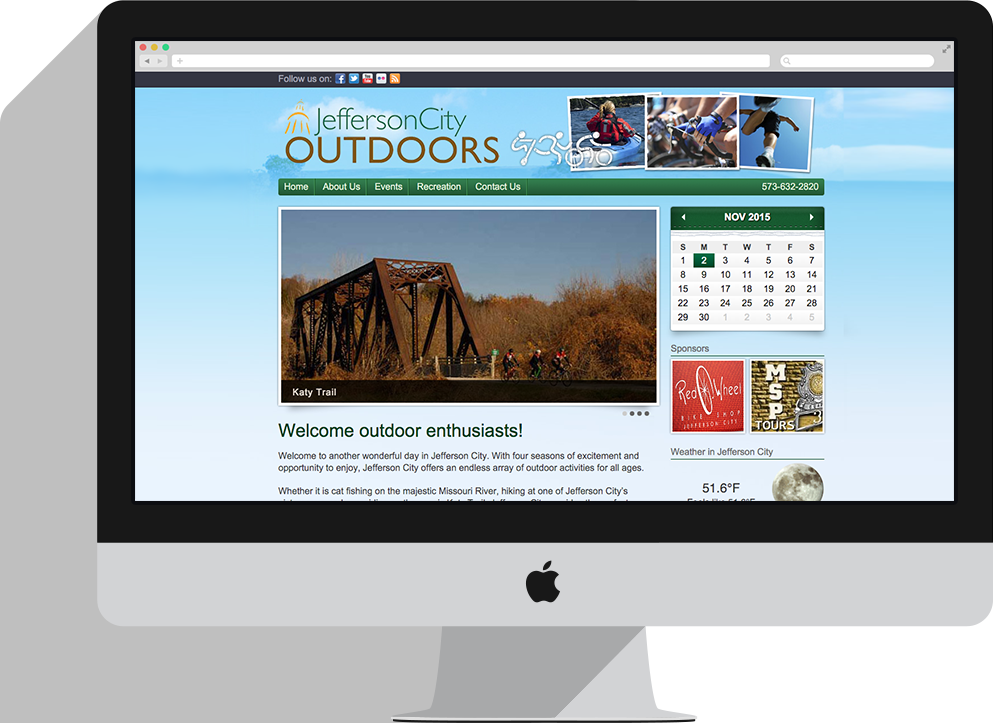
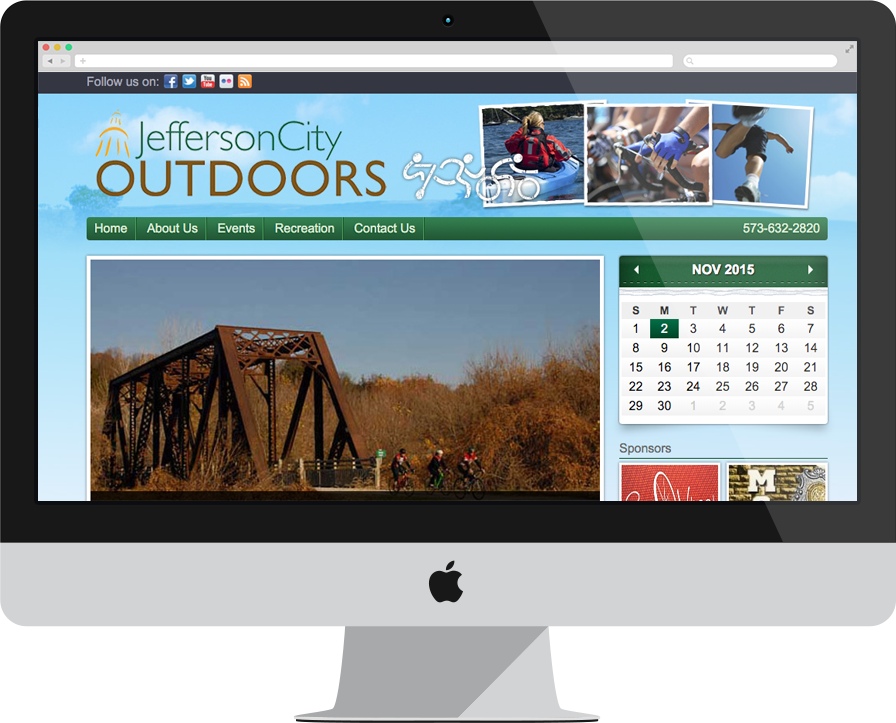
Add new portfolio pieces

diff --git a/index.html b/index.html
@@ -79,7 +79,7 @@
     		<div class="container">
     			<div class="row section__header">
     				<div class="hero col-sm-6 col-sm-offset-3">
-    					<img src="images/avatar.png" alt="" class="os-animation" data-os-animation-delay="0s" data-os-animation="flipInY">
+    					<img src="images/tyler-1.jpg" alt="" class="os-animation" data-os-animation-delay="0s" data-os-animation="flipInY">
     					<h2 class="section__title">About Me</h2>
     				</div>
     			</div>
@@ -113,7 +113,8 @@
 	    		<div class="row">
 	    			<div class="col-lg-4 col-md-4 col-sm-12 col-xs-12 col-md-offset-1">
 	    				<h3>KWIK KAR</h3>
-	<p>Kwik Kar needed a new online presence that combined several chain location websites into one main website with a CMS backend that was easy for a non-web developer to use. I incorporated branding elements from their marketing materials to create a site that ties together marketing efforts and branding for these Kwik Kar locations.</p>
+	<p>Kwik Kar needed a new online presence that combined several chain location websites into one main website with a CMS backend that was easy for a non-web developer to use. I incorporated branding elements from their marketing materials to create a site that ties together marketing efforts and branding for these Kwik Kar locations.<br><a href="http://www.kwikkarmo.com">view the website</a></p>
+
 	    			</div>
 		    		<div class="col-lg-6 col-md-6 col-sm-12 col-xs-12 col-md-offset-1">
 		    			<img src="images/kwikkar.png" alt="" class="os-animation" data-os-animation-delay="0s" data-os-animation="slideInRight">
@@ -143,6 +144,29 @@
 		    		</div>
 	    		</div>
     		</div>
+            <div class="container project">
+                <div class="row">
+                    <div class="col-lg-6 col-md-6 col-sm-12 col-xs-12 col-md-offset-1">
+                        <img src="images/mat-monster.png" alt="" class="os-animation" data-os-animation-delay="0s" data-os-animation="slideInLeft">
+                    </div>
+                    <div class="col-lg-4 col-md-4 col-sm-12 col-xs-12 col-md-offset-1">
+                        <h3>Mat Monster</h3>
+    <p>At Ringside Boxing I designed and developed e-Commerce websites for MatMonster.com, MAAuthority.com and ContenderFightSports.com. The websites were built on the Magento platform. I was responsible for the branding, site design and front-end development.</p>
+                    </div>
+                    
+                </div>
+            </div>
+            <div class="container project">
+                <div class="row">
+                    <div class="col-lg-4 col-md-4 col-sm-12 col-xs-12 col-md-offset-1">
+                        <h3>Jefferson City Outdoors</h3>
+    <p>The Jefferson City Convention and Visitor's Bureau wanted a website that would share all of the outdoor activities that residents could participate in. I designed the theme for this website and built it on wordpress for ease of updating by the client.</p>
+                    </div>
+                    <div class="col-lg-6 col-md-6 col-sm-12 col-xs-12 col-md-offset-1">
+                        <img src="images/jcoutdoors.png" alt="" class="os-animation" data-os-animation-delay="0s" data-os-animation="slideInRight">
+                    </div>
+                </div>
+            </div>
     	</section>
     	<section class="contact" id="contact">
     		<div class="container">
